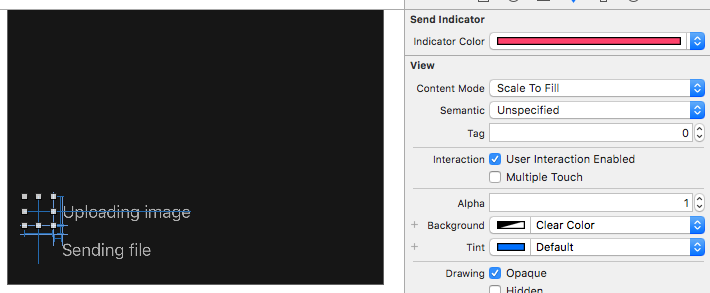
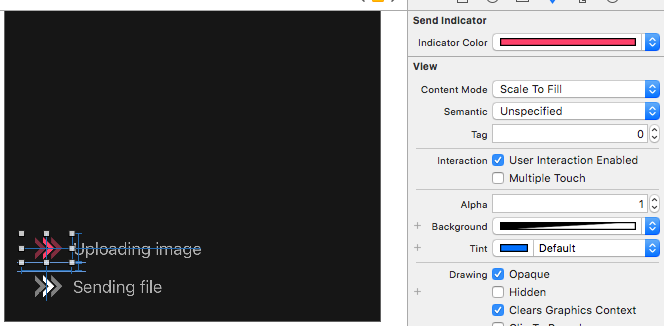
Storyboard preview

Changed region(s): [[0.0, 0.0, 1.0, 1.0], [0.8735, 0.0, 0.9337, 0.0307], [0.7831, 0.0, 0.8133, 0.0307]]

diff --git a/Sources/SendIndicator.swift b/Sources/SendIndicator.swift
@@ -318,6 +318,8 @@ open class SendIndicator: UIView {
 
             palette.indicatorColor = indicatorColor ?? palette.indicatorColor
 
+            draw()
+
         }
 
     }
@@ -335,6 +337,8 @@ open class SendIndicator: UIView {
     override init(frame: CGRect) {
 
         super.init(frame: frame)
+
+        self.draw()
 
     }
 

diff --git a/README.md b/README.md
@@ -3,7 +3,7 @@
 ![showcase](Images/showcase.gif)
 
 [![Platform](https://img.shields.io/badge/platform-iOS-orange.svg)](https://github.com/LeonardoCardoso/SendIndicator#requirements-and-details)
-[![CocoaPods](https://img.shields.io/badge/pod-v0.0.1-red.svg)](https://github.com/LeonardoCardoso/SendIndicator#cocoapods)
+[![CocoaPods](https://img.shields.io/badge/pod-v0.0.2-red.svg)](https://github.com/LeonardoCardoso/SendIndicator#cocoapods)
 [![Carthage Compatible](https://img.shields.io/badge/Carthage-compatible-4BC51D.svg)](https://github.com/LeonardoCardoso/SendIndicator#carthage)
 
 > Yet another task indicator
@@ -29,7 +29,7 @@
 $ gem install cocoapods
 ```
 
-> CocoaPods 1.1.0+ is required to build SendIndicator 0.0.1+.
+> CocoaPods 1.1.0+ is required to build SendIndicator 0.0.2+.
 
 To integrate SendIndicator into your Xcode project using CocoaPods, specify it in your `Podfile`:
 
@@ -38,7 +38,7 @@ source 'https://github.com/CocoaPods/Specs.git'
 platform :ios, '8.0'
 use_frameworks!
 
-pod 'SendIndicator', '~> 0.0.1'
+pod 'SendIndicator', '~> 0.0.2'
 ```
 
 Then, run the following command:
@@ -61,7 +61,7 @@ $ brew install carthage
 To integrate SendIndicator into your Xcode project using Carthage, specify it in your `Cartfile`:
 
 ```ogdl
-github "LeonardoCardoso/SendIndicator" ~> 0.0.1
+github "LeonardoCardoso/SendIndicator" ~> 0.0.2
 ```
 
 ### Manually

diff --git a/CHANGELOG.md b/CHANGELOG.md
@@ -1,9 +1,16 @@
 # Change Log
 
 #### 0.x Releases
-- `0.0.x` Releases - [0.0.1](#001)
+- `0.0.x` Releases - [0.0.1](#001) | [0.0.2](#002)
 
 ---
+
+## [0.0.2](https://github.com/LeonardoCardoso/SendIndicator/releases/tag/0.0.2)
+Released on 2017-06-08.
+
+#### Added
+- Storyboard preview.
+  - Added by [Leonardo Cardoso](https://github.com/LeonardoCardoso).
 
 ## [0.0.1](https://github.com/LeonardoCardoso/SendIndicator/releases/tag/0.0.1)
 Released on 2017-05-31.
